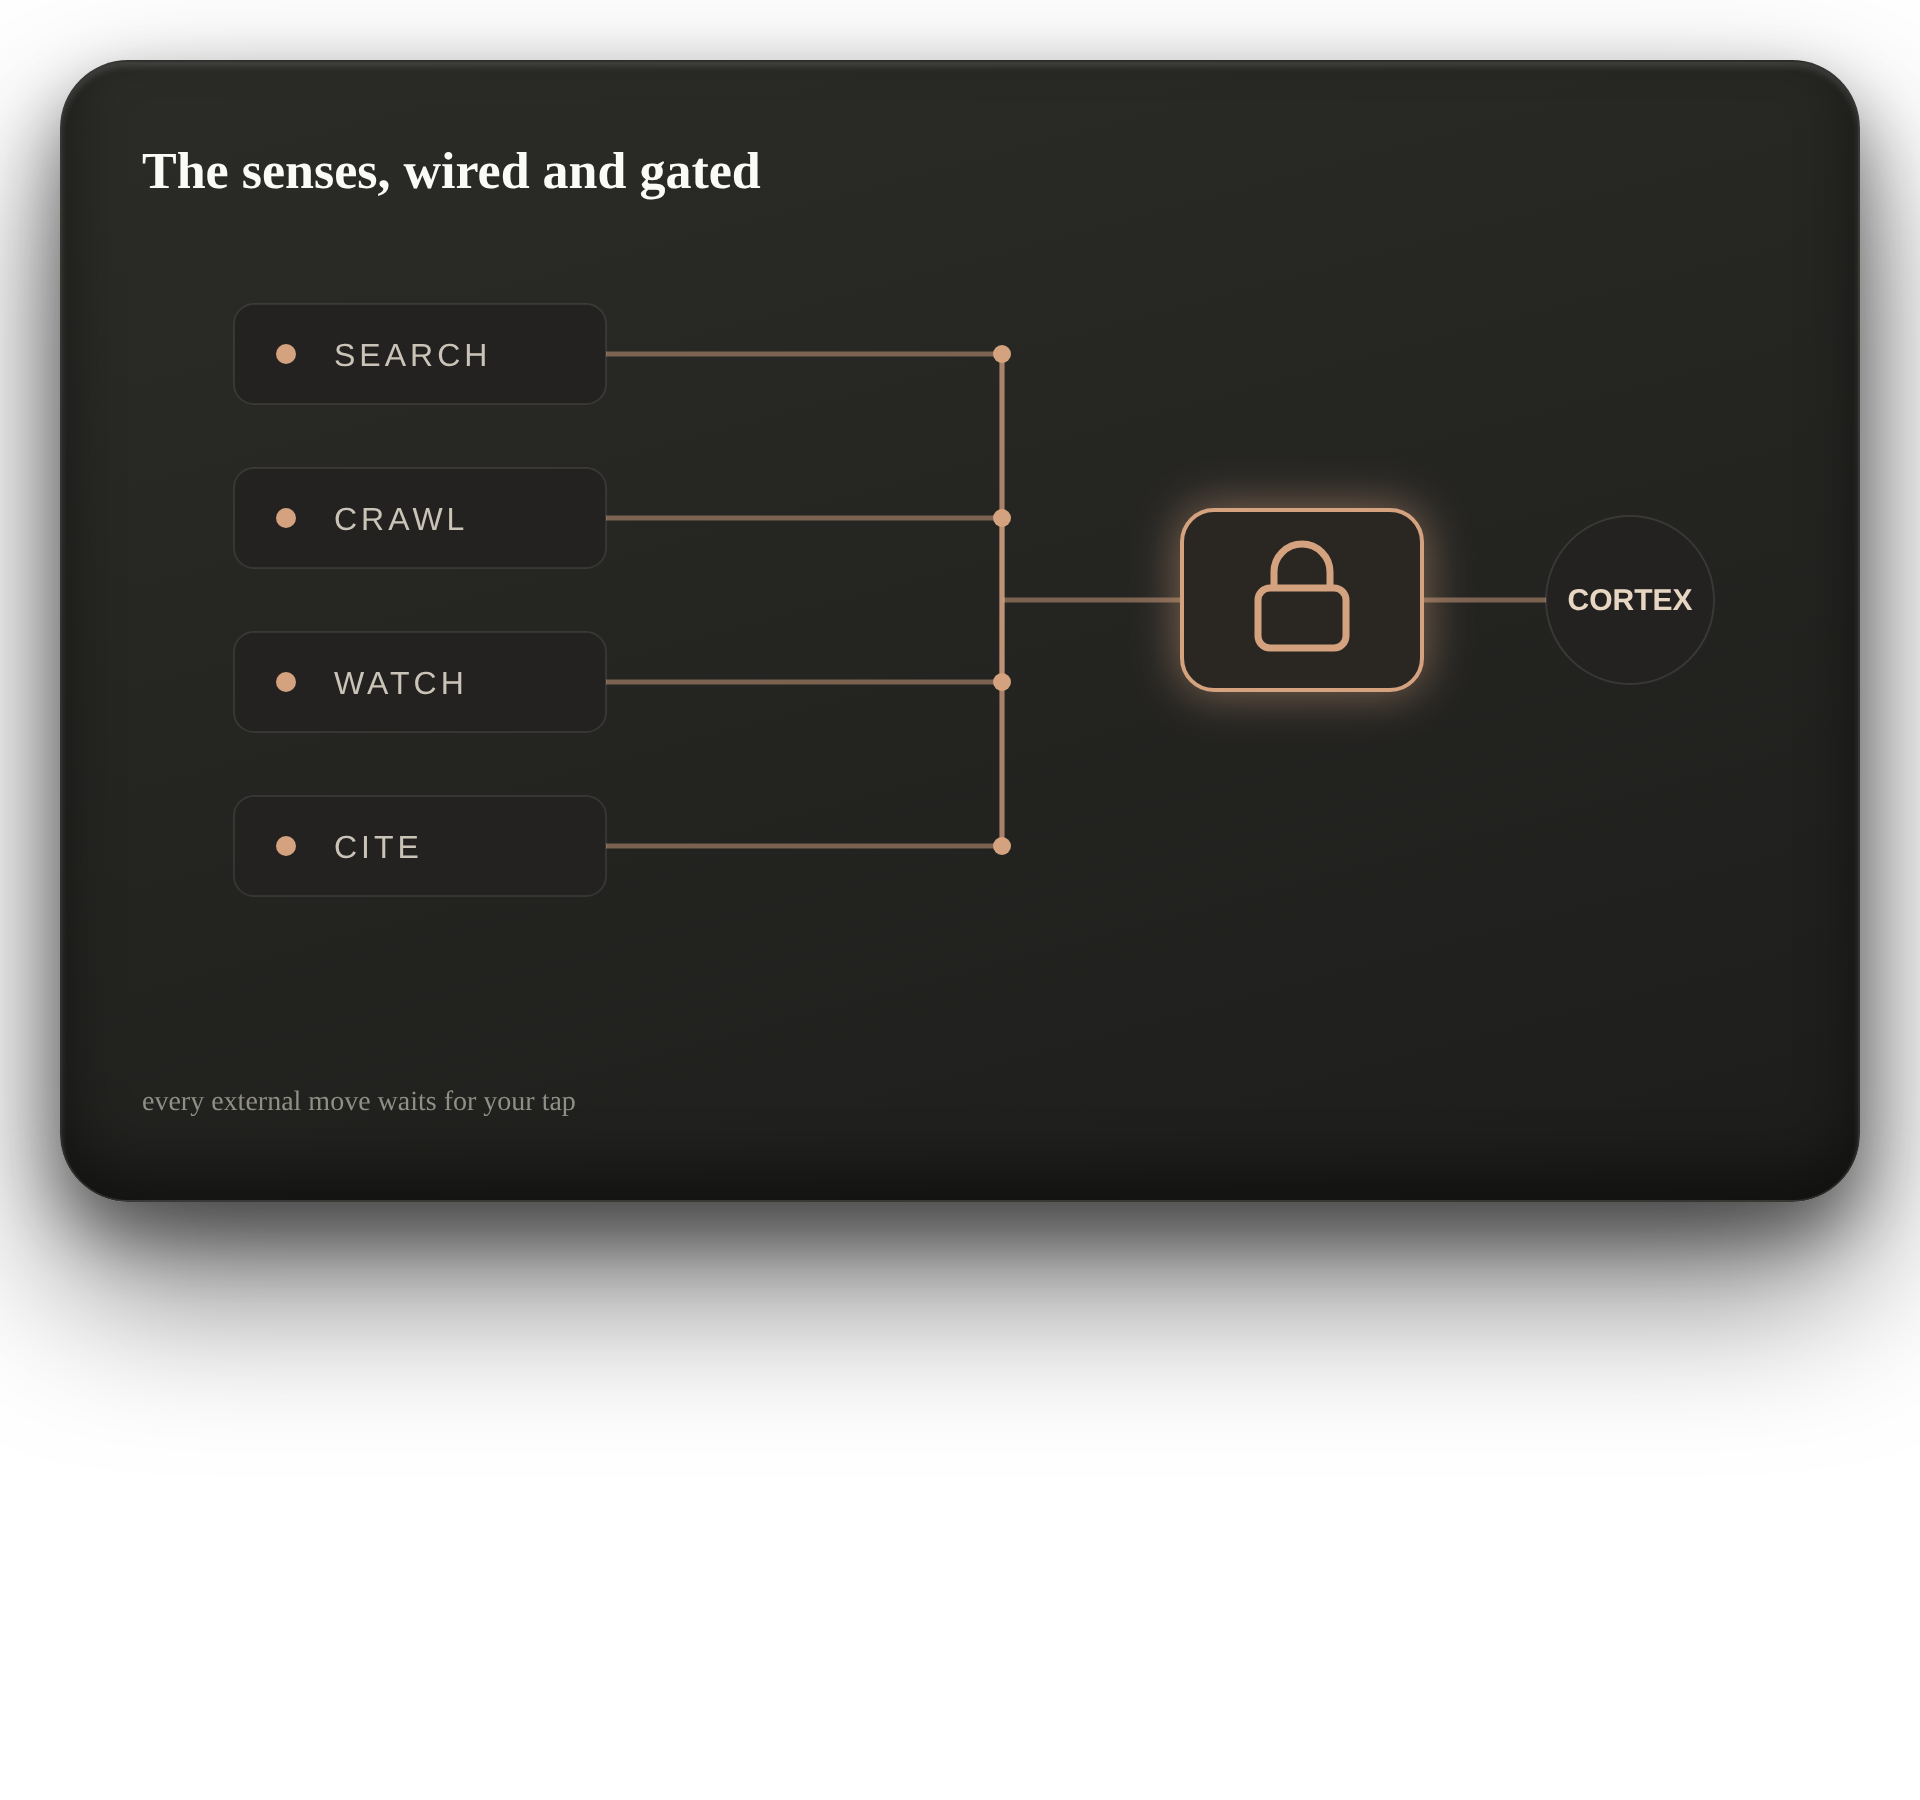
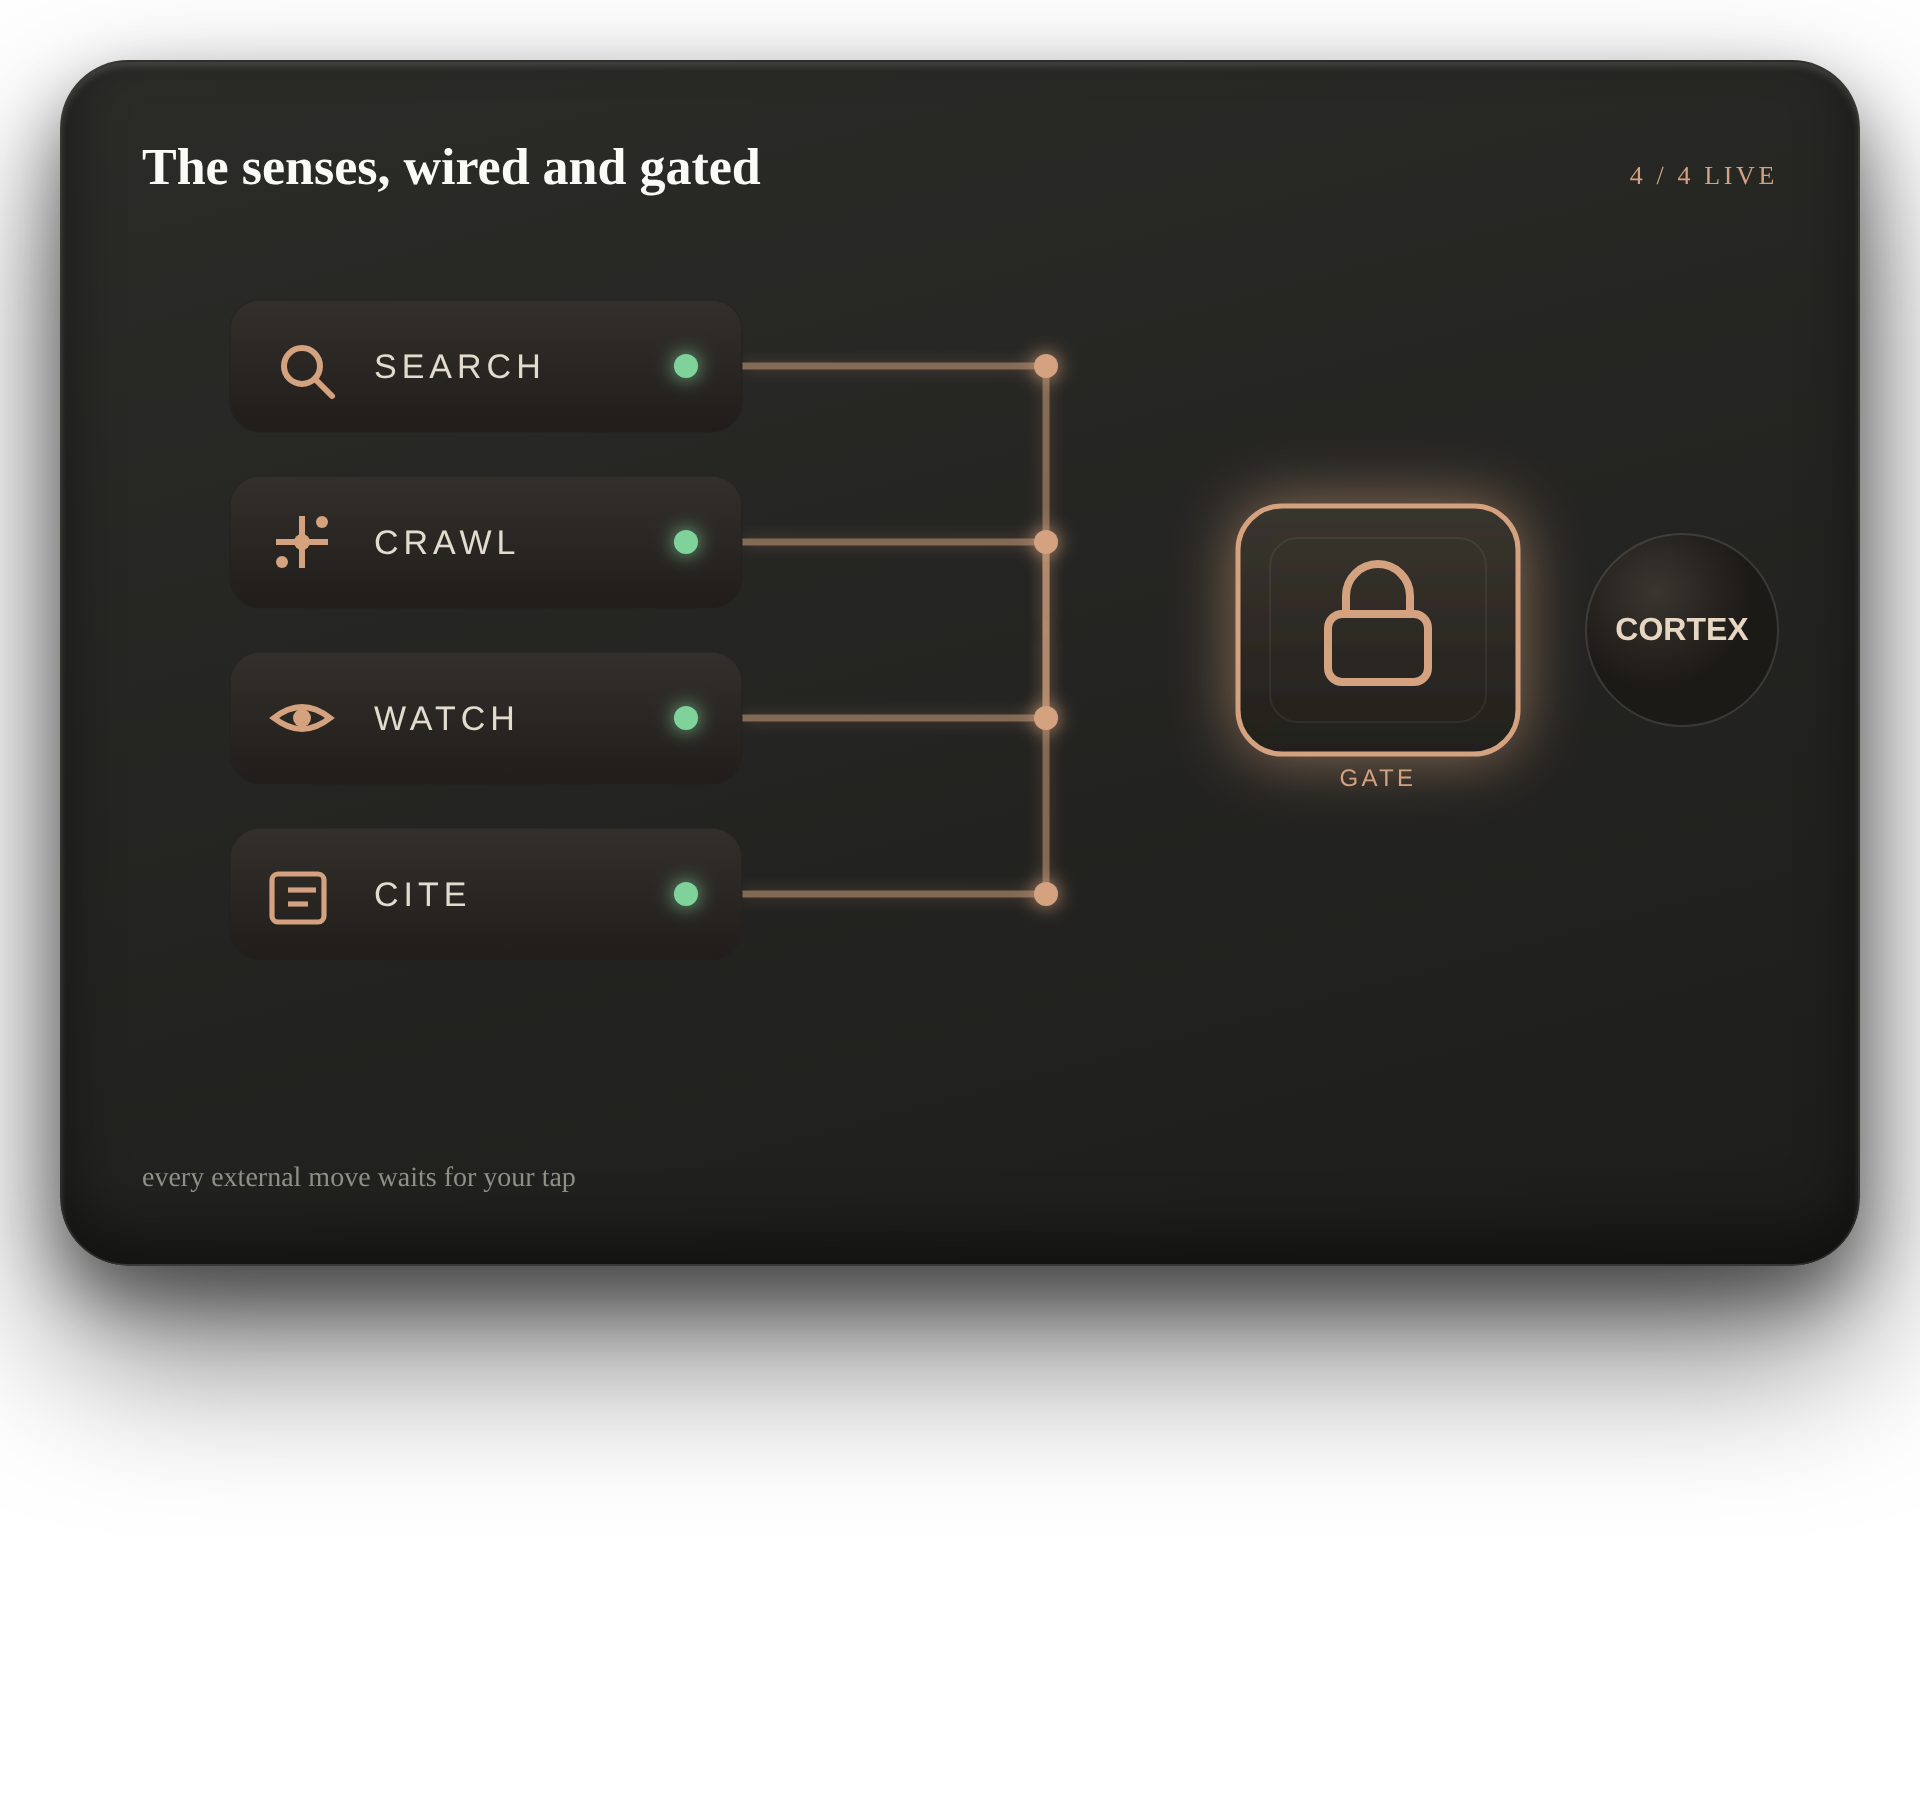
eyes: setup10 motherboard premium (module 3D+icoane+LED, gate proeminent); pila CTA COMMENT BUILDER din cod (COMMENT vizibil, fara glow banding)

diff --git a/content/_hitl-src/eyes_t3.py b/content/_hitl-src/eyes_t3.py
@@ -172,31 +172,73 @@ def diff10():
         </div>
       </div></div>'''
 
-# 7. SETUP10 - CIRCUIT BOARD (orthogonal traces + solder joints + gate), distinct from crawl's
-# radial fan (operator: slide 4 si 8 nu au voie identice). Black CARD.
+# 7. SETUP10 - premium MOTHERBOARD: chunky 3D sense modules w/ icons + status LEDs, thick glowing
+# orthogonal traces + solder joints, a prominent 3D GATE module, CORTEX output. Dense, dimensional
+# (operator: circuitul plat era slab). Distinct topology from crawl's radial curves. Black CARD.
 def setup10():
-    W,H=820,430
-    senses=[("SEARCH",68),("CRAWL",150),("WATCH",232),("CITE",314)]
-    busx=430; gatex0,gatey0=520,146; gatecy=191; outx=744
+    W,H=830,470
+    ICON={
+      "SEARCH":'<circle cx="0" cy="0" r="9" fill="none" stroke="rgb({A})" stroke-width="3"/><line x1="7" y1="7" x2="15" y2="15" stroke="rgb({A})" stroke-width="3" stroke-linecap="round"/>',
+      "CRAWL":'<line x1="-13" y1="0" x2="13" y2="0" stroke="rgb({A})" stroke-width="3"/><line x1="0" y1="-13" x2="0" y2="13" stroke="rgb({A})" stroke-width="3"/><circle cx="0" cy="0" r="4" fill="rgb({A})"/><circle cx="10" cy="-10" r="3" fill="rgb({A})"/><circle cx="-10" cy="10" r="3" fill="rgb({A})"/>',
+      "WATCH":'<path d="M-14 0 Q0 -11 14 0 Q0 11 -14 0Z" fill="none" stroke="rgb({A})" stroke-width="3"/><circle cx="0" cy="0" r="4.5" fill="rgb({A})"/>',
+      "CITE":'<path d="M-12 -10 h20 a3 3 0 0 1 3 3 v18 a3 3 0 0 1 -3 3 h-20 a3 3 0 0 1 -3 -3 v-18 a3 3 0 0 1 3 -3Z" fill="none" stroke="rgb({A})" stroke-width="2.6"/><line x1="-7" y1="-2" x2="7" y2="-2" stroke="rgb({A})" stroke-width="2.6"/><line x1="-7" y1="5" x2="3" y2="5" stroke="rgb({A})" stroke-width="2.6"/>',
+    }
+    senses=[("SEARCH",78),("CRAWL",166),("WATCH",254),("CITE",342)]
+    busx=452; gatex0=548; gatecy=210; outx=770
     traces=""; joints=""; chips=""
     for nm,y in senses:
-        traces+=f'<path d="M232 {y} H{busx} V{gatecy}" fill="none" stroke="rgba(212,162,127,.5)" stroke-width="2.5"/>'
-        joints+=f'<circle cx="{busx}" cy="{y}" r="4.5" fill="rgb({ACC})"/>'
-        chips+=f'<rect x="46" y="{y-25}" width="186" height="50" rx="10" fill="#242220" stroke="rgba(255,255,255,.09)"/><circle cx="72" cy="{y}" r="5" fill="rgb({ACC})"/><text x="96" y="{y+6}" font-family="DM Mono" font-size="16" letter-spacing="2" fill="#c9c3b8">{nm}</text>'
-    return f'''<div style="width:900px;{CARD};padding:40px">
-      <div style="font-family:'DM Sans';font-weight:800;font-size:26px;color:#FAFAF7;margin-bottom:8px">The senses, wired and gated</div>
+        traces+=f'<path d="M300 {y} H{busx} V{gatecy}" fill="none" stroke="rgb({ACC})" stroke-width="3.5" opacity="0.55" filter="url(#tg)"/>'
+        joints+=f'<circle cx="{busx}" cy="{y}" r="6" fill="rgb({ACC})" filter="url(#nd)"/>'
+        ic=ICON[nm].replace("{A}",ACC)
+        chips+=(f'<g><rect x="44" y="{y-33}" width="256" height="66" rx="15" fill="url(#chip)" stroke="rgba(255,255,255,.10)"/>'
+                f'<rect x="44" y="{y-33}" width="256" height="66" rx="15" fill="none" stroke="rgba(0,0,0,.4)" stroke-width="1"/>'
+                f'<g transform="translate(80,{y})">{ic}</g>'
+                f'<text x="116" y="{y+6}" font-family="DM Mono" font-size="17" letter-spacing="2.5" fill="#e2dccf">{nm}</text>'
+                f'<circle cx="272" cy="{y}" r="6" fill="#7fd39a" filter="url(#ld)"/></g>')
+    return f'''<div style="width:900px;{CARD};padding:38px 40px 34px">
+      <div style="display:flex;align-items:baseline;justify-content:space-between;margin-bottom:6px">
+        <span style="font-family:'DM Sans';font-weight:800;font-size:26px;color:#FAFAF7">The senses, wired and gated</span>
+        <span style="font-family:'DM Mono';font-size:13px;letter-spacing:.14em;color:rgb({ACC})">4 / 4 LIVE</span></div>
       <svg width="{W}" height="{H}" viewBox="0 0 {W} {H}">
-        <defs><filter id="g2" x="-120%" y="-120%" width="340%" height="340%"><feDropShadow dx="0" dy="0" stdDeviation="12" flood-color="rgb({ACC})" flood-opacity="0.55"/></filter></defs>
-        <line x1="{busx}" y1="68" x2="{busx}" y2="314" stroke="rgba(212,162,127,.5)" stroke-width="2.5"/>
-        {traces}{joints}{chips}
-        <path d="M{busx} {gatecy} H{gatex0}" fill="none" stroke="rgba(212,162,127,.5)" stroke-width="2.5"/>
-        <g filter="url(#g2)"><rect x="{gatex0}" y="{gatey0}" width="120" height="90" rx="16" fill="#2a2724" stroke="rgb({ACC})" stroke-width="2"/></g>
-        <g transform="translate({gatex0+38},{gatecy-24})"><rect x="0" y="18" width="44" height="30" rx="6" fill="none" stroke="rgb({ACC})" stroke-width="3.5"/><path d="M8 18 V10 a14 14 0 0 1 28 0 v8" fill="none" stroke="rgb({ACC})" stroke-width="3.5"/></g>
-        <path d="M{gatex0+120} {gatecy} H{outx-42}" fill="none" stroke="rgba(212,162,127,.5)" stroke-width="2.5"/>
-        <circle cx="{outx}" cy="{gatecy}" r="42" fill="#242220" stroke="rgba(255,255,255,.1)"/>
-        <text x="{outx}" y="{gatecy+5}" text-anchor="middle" font-family="DM Sans" font-weight="800" font-size="15" fill="#e6d6c2">CORTEX</text>
+        <defs>
+          <linearGradient id="chip" x1="0" y1="0" x2="0" y2="1"><stop offset="0%" stop-color="#33302c"/><stop offset="100%" stop-color="#201d1a"/></linearGradient>
+          <linearGradient id="gate" x1="0" y1="0" x2="0" y2="1"><stop offset="0%" stop-color="#3a352f"/><stop offset="100%" stop-color="#221f1b"/></linearGradient>
+          <radialGradient id="outc" cx="36%" cy="30%"><stop offset="0%" stop-color="#3a352f"/><stop offset="100%" stop-color="#1c1a17"/></radialGradient>
+          <filter id="tg" x="-40%" y="-40%" width="180%" height="180%"><feDropShadow dx="0" dy="0" stdDeviation="4" flood-color="rgb({ACC})" flood-opacity="0.5"/></filter>
+          <filter id="nd" x="-200%" y="-200%" width="500%" height="500%"><feDropShadow dx="0" dy="0" stdDeviation="5" flood-color="rgb({ACC})" flood-opacity="0.9"/></filter>
+          <filter id="ld" x="-200%" y="-200%" width="500%" height="500%"><feDropShadow dx="0" dy="0" stdDeviation="5" flood-color="#7fd39a" flood-opacity="0.9"/></filter>
+          <filter id="gg" x="-120%" y="-120%" width="340%" height="340%"><feDropShadow dx="0" dy="0" stdDeviation="16" flood-color="rgb({ACC})" flood-opacity="0.6"/></filter>
+        </defs>
+        <line x1="{busx}" y1="78" x2="{busx}" y2="342" stroke="rgb({ACC})" stroke-width="3.5" opacity="0.55" filter="url(#tg)"/>
+        {traces}
+        <path d="M{busx} {gatecy} H{gatex0}" fill="none" stroke="rgb({ACC})" stroke-width="3.5" opacity="0.55" filter="url(#tg)"/>
+        {chips}{joints}
+        <g filter="url(#gg)"><rect x="{gatex0}" y="{gatecy-62}" width="140" height="124" rx="22" fill="url(#gate)" stroke="rgb({ACC})" stroke-width="2.5"/></g>
+        <rect x="{gatex0+16}" y="{gatecy-46}" width="108" height="92" rx="14" fill="none" stroke="rgba(255,255,255,.06)"/>
+        <g transform="translate({gatex0+45},{gatecy-30})"><rect x="0" y="22" width="50" height="34" rx="7" fill="none" stroke="rgb({ACC})" stroke-width="4"/><path d="M9 22 V13 a16 16 0 0 1 32 0 v9" fill="none" stroke="rgb({ACC})" stroke-width="4"/></g>
+        <text x="{gatex0+70}" y="{gatecy+78}" text-anchor="middle" font-family="DM Mono" font-size="12" letter-spacing=".14em" fill="rgb({ACC})">GATE</text>
+        <path d="M{gatex0+140} {gatecy} H{outx-48}" fill="none" stroke="rgb({ACC})" stroke-width="3.5" opacity="0.55" filter="url(#tg)"/>
+        <circle cx="{outx}" cy="{gatecy}" r="48" fill="url(#outc)" stroke="rgba(255,255,255,.12)"/>
+        <text x="{outx}" y="{gatecy+5}" text-anchor="middle" font-family="DM Sans" font-weight="800" font-size="16" fill="#e6d6c2">CORTEX</text>
       </svg>
-      <div style="font-family:'DM Mono';font-size:14px;color:#8f8f85">every external move waits for your tap</div></div>'''
+      <div style="font-family:'DM Mono';font-size:14px;color:#8f8f85;margin-top:2px">every external move waits for your tap</div></div>'''
+
+# CTA pill "comment BUILDER" - coded to match the Tier-3 construct (glossy accent pill w/ send)
+def cta_pill():
+    return f'''<div style="width:760px;height:200px;display:flex;align-items:center;justify-content:center">
+      <div style="display:flex;align-items:center;gap:0;border-radius:999px;overflow:hidden;
+        box-shadow:0 24px 46px rgba(0,0,0,.45)">
+        <div style="display:flex;flex-direction:column;justify-content:center;padding:26px 34px 26px 40px;
+          background:linear-gradient(160deg,#2b2824,#1c1a17);border:1px solid rgba(255,255,255,.08);border-right:none">
+          <span style="font-family:'DM Mono';font-weight:500;font-size:25px;letter-spacing:.14em;color:rgb({ACC})">COMMENT</span>
+          <span style="font-family:'DM Sans';font-weight:900;font-size:46px;color:#FAFAF7;line-height:1;margin-top:4px">BUILDER</span>
+        </div>
+        <div style="align-self:stretch;display:flex;align-items:center;padding:0 40px;
+          background:linear-gradient(160deg,#e6b48f,rgb({ACC}) 55%,#9a5a35);box-shadow:inset 0 2px 3px rgba(255,255,255,.4)">
+          <svg width="46" height="46" viewBox="0 0 24 24" fill="none" stroke="#1a0f0a" stroke-width="2.4" stroke-linecap="round" stroke-linejoin="round"><path d="M5 12h14M13 6l6 6-6 6"/></svg>
+        </div>
+      </div>
+    </div>'''
 
 # 8. BAR10 - closing statement card, minimal pulse spark (distinct from watch's radar rings)
 def bar10():

diff --git a/content/_hitl-src/build_eyes.py b/content/_hitl-src/build_eyes.py
@@ -19,6 +19,6 @@ T2.CONTENT=[
  ('THE SETUP', [[wo('Wired in minutes,')],[co('not weekends.')]], 'The senses come connected on the desk: search, crawl, watch, all gated.', [co('Sight, preinstalled.')], f"{M}/setup10.png", 1.0),
  ('THE BAR10', [[wo('Never trust an answer')],[co('that cannot see today.')]], 'Ask yours what changed in your market this week. Watch it guess.', [co('Run that test now.')], f"{M}/bar10.png", 1.0),
 ]
-T2.CTA=("SAVE THIS", [[wo('Want the playbook?')],[co('comment BUILDER.')]], f"{LIB}/cta3d-builder.png", 0.92)
+T2.CTA=("SAVE THIS", [[wo('Want the wiring list?')]], "/home/user/tiberiu-claude/content/_hitl-src/models_clay/eyes/cta_builder.png", 0.82)
 T2.CLOSE=dict(l1='Save the wiring list',l2='and give yours sight.',q='What is yours still blind to?')
 MARK2="claude"
